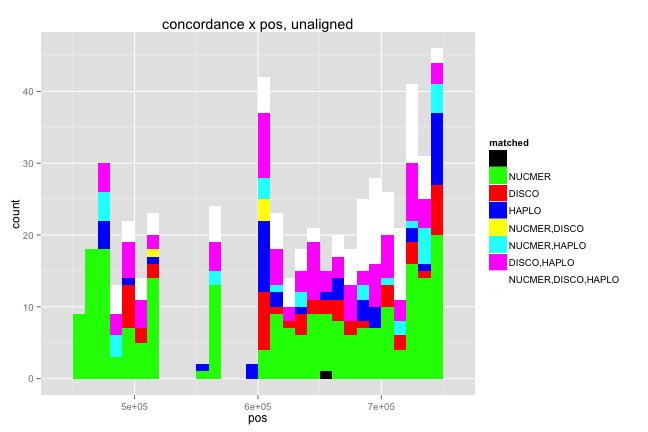
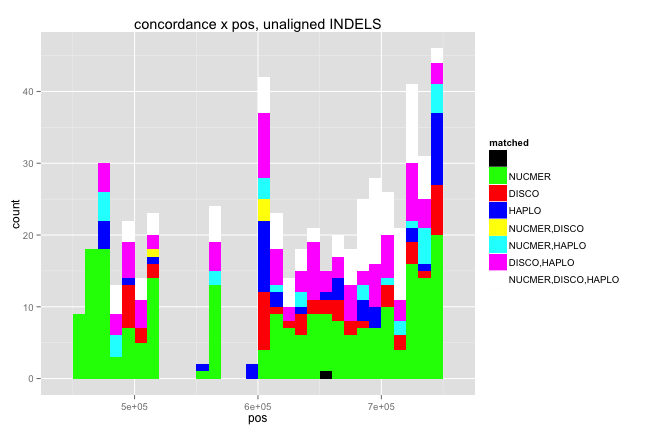
cleanup

Changed region(s): [[0.216, 0.0301, 0.5864, 0.0903]]

diff --git a/reports/150722_3-way_leftAligncf/runAnalysis3cf.md b/reports/150722_3-way_leftAligncf/runAnalysis3cf.md
@@ -66,8 +66,6 @@ nuccfs[nuccfs$TA,]$STRtype = "TA"
 nuccfs[nuccfs$polyA,]$STRtype = "polyA"
 
 nuccfs$quality <- as.numeric(nuccfs$quality)
-#nuccfs[is.na(as.numeric(nuccfs$quality)),]
-#REMOVE MISMATCHES (messy/infrequent)
 nuccfs <- nuccfs[which(nuccfs$concordance!="MISMATCH"),]
 
 nuccfsRight <- nuccfs
@@ -90,13 +88,6 @@ ggplot(subset(ctable,x!="none"),aes(x,y,fill=Freq)) +
 ```
 
 ![plot of chunk unnamed-chunk-4](figure/unnamed-chunk-4-1.png) 
-
-```r
-# ggplot(subset(ctable,matched != "" & STRtype %in% c("polyA","TA")),aes(x,y,fill=Freq)) + 
-#   geom_tile() + scale_fill_gradient(low="white",high="red") +
-#   stat_bin2d(geom="text", aes(label=Freq)) +
-#   facet_grid(type ~ STRtype)
-```
 ##left align
 
 ```r
@@ -113,18 +104,11 @@ ggplot(subset(ctable,x!="none"),aes(x,y,fill=Freq)) +
 
 ![plot of chunk unnamed-chunk-5](figure/unnamed-chunk-5-1.png) 
 
-```r
-# ggplot(subset(ctable,matched != "" & STRtype %in% c("polyA","TA")),aes(x,y,fill=Freq)) + 
-#   geom_tile() + scale_fill_gradient(low="white",high="red") +
-#   stat_bin2d(geom="text", aes(label=Freq)) +
-#   facet_grid(type ~ STRtype)
-```
-
 #call concordance vs posn, SNPs
 
 ```r
 posConcL <- ggplot(subset(nuccfsLeft,type=="S"),aes(x=pos, group=matched, fill=matched)) + geom_histogram(binwidth=10000)
-posConcL + ggtitle("concordance x pos, aligned") + scale_fill_manual(values = colours)
+posConcL + ggtitle("concordance x pos, aligned SNPs") + scale_fill_manual(values = colours)
 ```
 
 ![plot of chunk unnamed-chunk-6](figure/unnamed-chunk-6-1.png) 
@@ -132,28 +116,28 @@ posConcL + ggtitle("concordance x pos, aligned") + scale_fill_manual(values = co
 
 ```r
 posConcR <- ggplot(subset(nuccfsRight,type=="I"),aes(x=pos, group=matched, fill=matched)) + geom_histogram(binwidth=10000)
-posConcR + ggtitle("concordance x pos, unaligned") + scale_fill_manual(values = colours)
+posConcR + ggtitle("concordance x pos, unaligned INDELS") + scale_fill_manual(values = colours)
 ```
 
 ![plot of chunk unnamed-chunk-7](figure/unnamed-chunk-7-1.png) 
 
 ```r
 posConcL <- ggplot(subset(nuccfsLeft,type=="I"),aes(x=pos, group=matched, fill=matched)) + geom_histogram(binwidth=10000)
-posConcL + ggtitle("concordance x pos, aligned") + scale_fill_manual(values = colours)
+posConcL + ggtitle("concordance x pos, aligned INDELS") + scale_fill_manual(values = colours)
 ```
 
 ![plot of chunk unnamed-chunk-7](figure/unnamed-chunk-7-2.png) 
 ##STR type (A/TA/complex) vs concordance, INDELS
 
 ```r
-posConcSTRR <- ggplot(subset(nuccfsRight,type=="I"),aes(x=pos, group=matched, fill=matched)) + geom_histogram(binwidth=10000)  + facet_grid(STRtype ~ .,scales="free_y") + ggtitle("STR type x pos, unaligned") + scale_fill_manual(values = colours)
+posConcSTRR <- ggplot(subset(nuccfsRight,type=="I"),aes(x=pos, group=matched, fill=matched)) + geom_histogram(binwidth=10000)  + facet_grid(STRtype ~ .,scales="free_y") + ggtitle("STR type x pos, unaligned INDELS") + scale_fill_manual(values = colours)
 posConcSTRR
 ```
 
 ![plot of chunk unnamed-chunk-8](figure/unnamed-chunk-8-1.png) 
 
 ```r
-posConcSTRL <- ggplot(subset(nuccfsLeft,type=="I"),aes(x=pos, group=matched, fill=matched)) + geom_histogram(binwidth=10000)  + facet_grid(STRtype ~ .,scales="free_y") + ggtitle("STR type x pos, aligned") + scale_fill_manual(values = colours)
+posConcSTRL <- ggplot(subset(nuccfsLeft,type=="I"),aes(x=pos, group=matched, fill=matched)) + geom_histogram(binwidth=10000)  + facet_grid(STRtype ~ .,scales="free_y") + ggtitle("STR type x pos, aligned INDELS") + scale_fill_manual(values = colours)
 posConcSTRL
 ```
 
